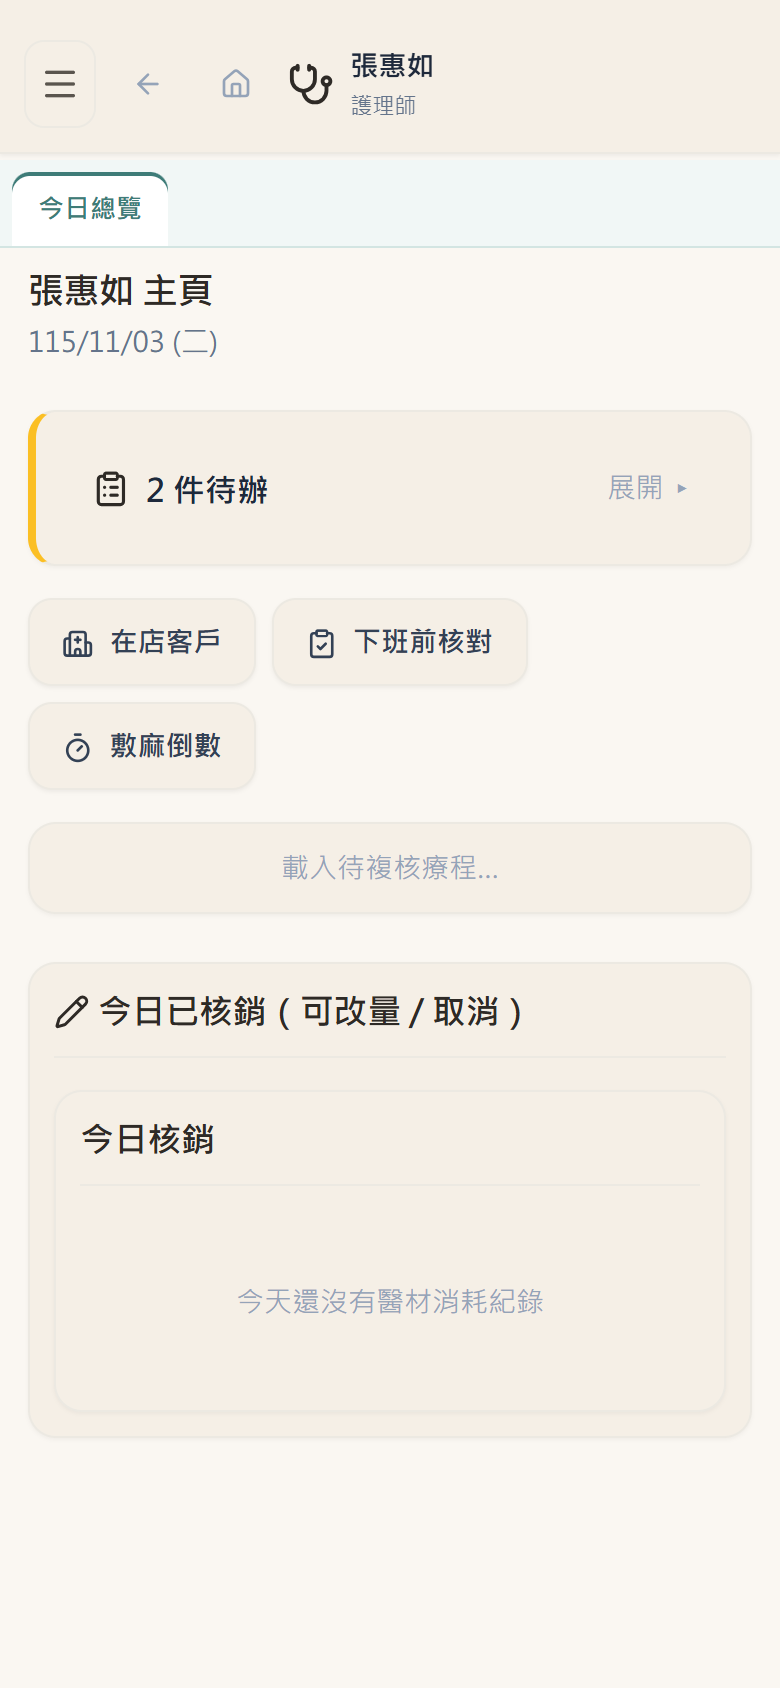
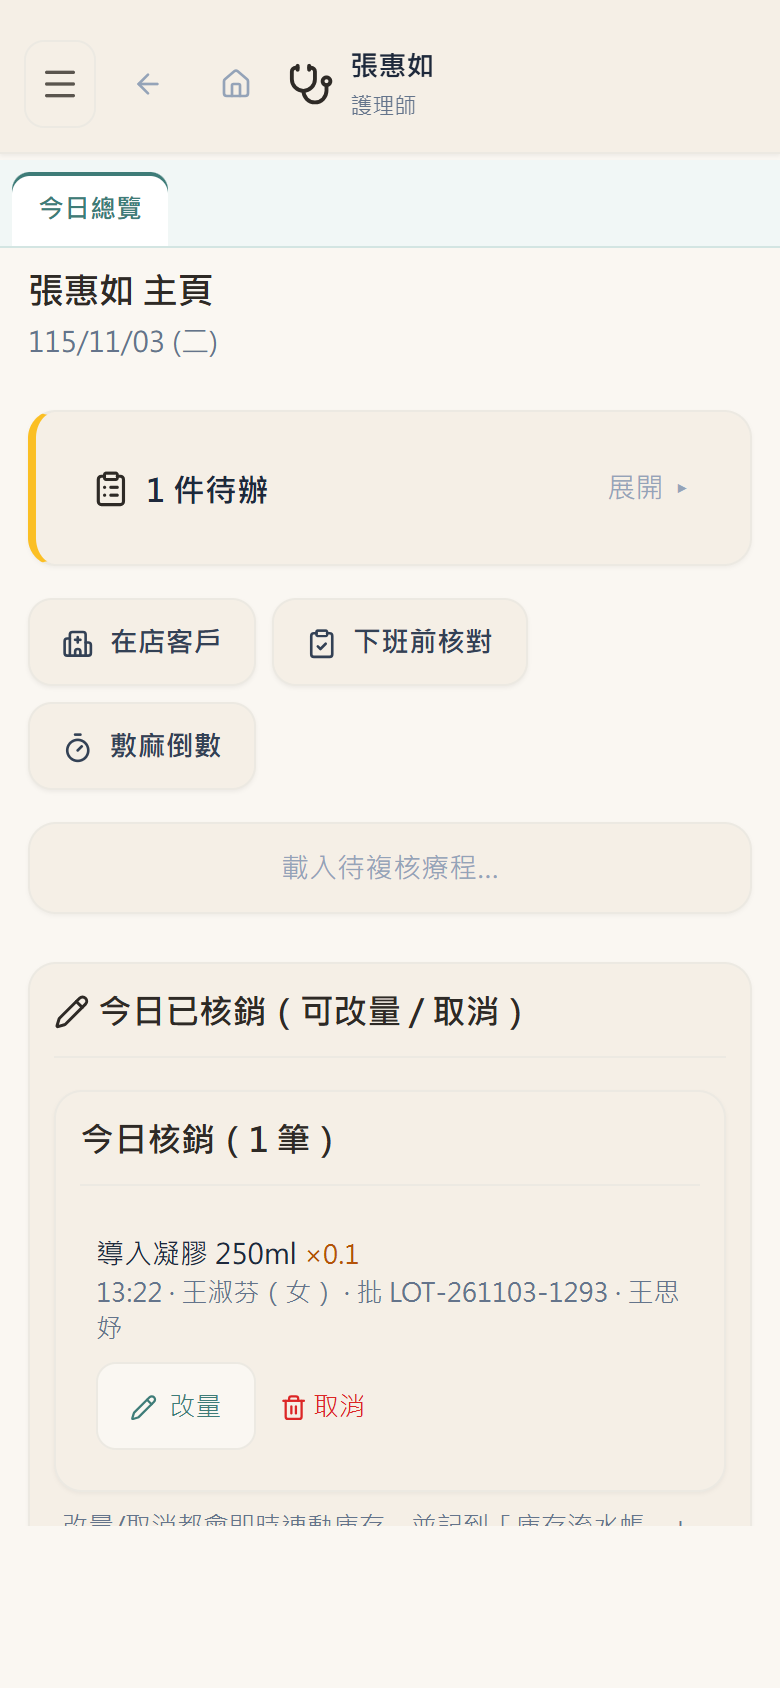
角色頁：護理師換成今日核銷耗材畫面、美容師換成主頁＋手技費登記（拿掉缺料提醒那張）

diff --git a/src/data/details.ts b/src/data/details.ts
@@ -225,7 +225,7 @@ export const roleDetails: Detail[] = [
   },
   {
     slug: 'nurse', short: '護理師', title: '醫美護理師的工作畫面：療程準備、耗材、術後追蹤',
-    shots: [{file: "nur-home-m", caption: "護理師的手機主頁：待辦、在店客戶、敷麻倒數"}],
+    shots: [{file: "nur-home-m", caption: "護理師的手機主頁：今天核銷的耗材、批號，可以改量或取消"}],
     description: '護理師在 GoodLife 準備療程、記錄耗材使用、拍術前後照片。',
     answer: '護理師在 GoodLife 看當天的療程安排，療程用掉的耗材依配方扣庫存並記錄批號，術前後照片也在系統裡拍攝保存。',
     points: [
@@ -237,7 +237,7 @@ export const roleDetails: Detail[] = [
   },
   {
     slug: 'beautician', short: '美容師', title: '美容師的工作畫面：今日客人、手技費、耗材庫存',
-    shots: [{file: "bcn-stock-m", caption: "耗材庫存：缺料自動提醒，進貨與盤點在手機完成"}],
+    shots: [{file: "bcn-home-m", caption: "美容師的手機主頁：今天的手技費累計與待辦"}, {file: "bcn-fee-m", caption: "手技費登記：選客人、勾做了哪些項目，金額自動帶出"}],
     description: '美容師在 GoodLife 看今天的客人、開執行單、登記手技費、查耗材庫存，並看自己的業績。',
     answer: '美容師在 GoodLife 看今天排了哪些客人，做完療程開執行單扣堂數、登記手技費，保養品銷售、耗材庫存與月盤點也在手機上完成，個人 KPI 看得到自己的業績。',
     points: [
